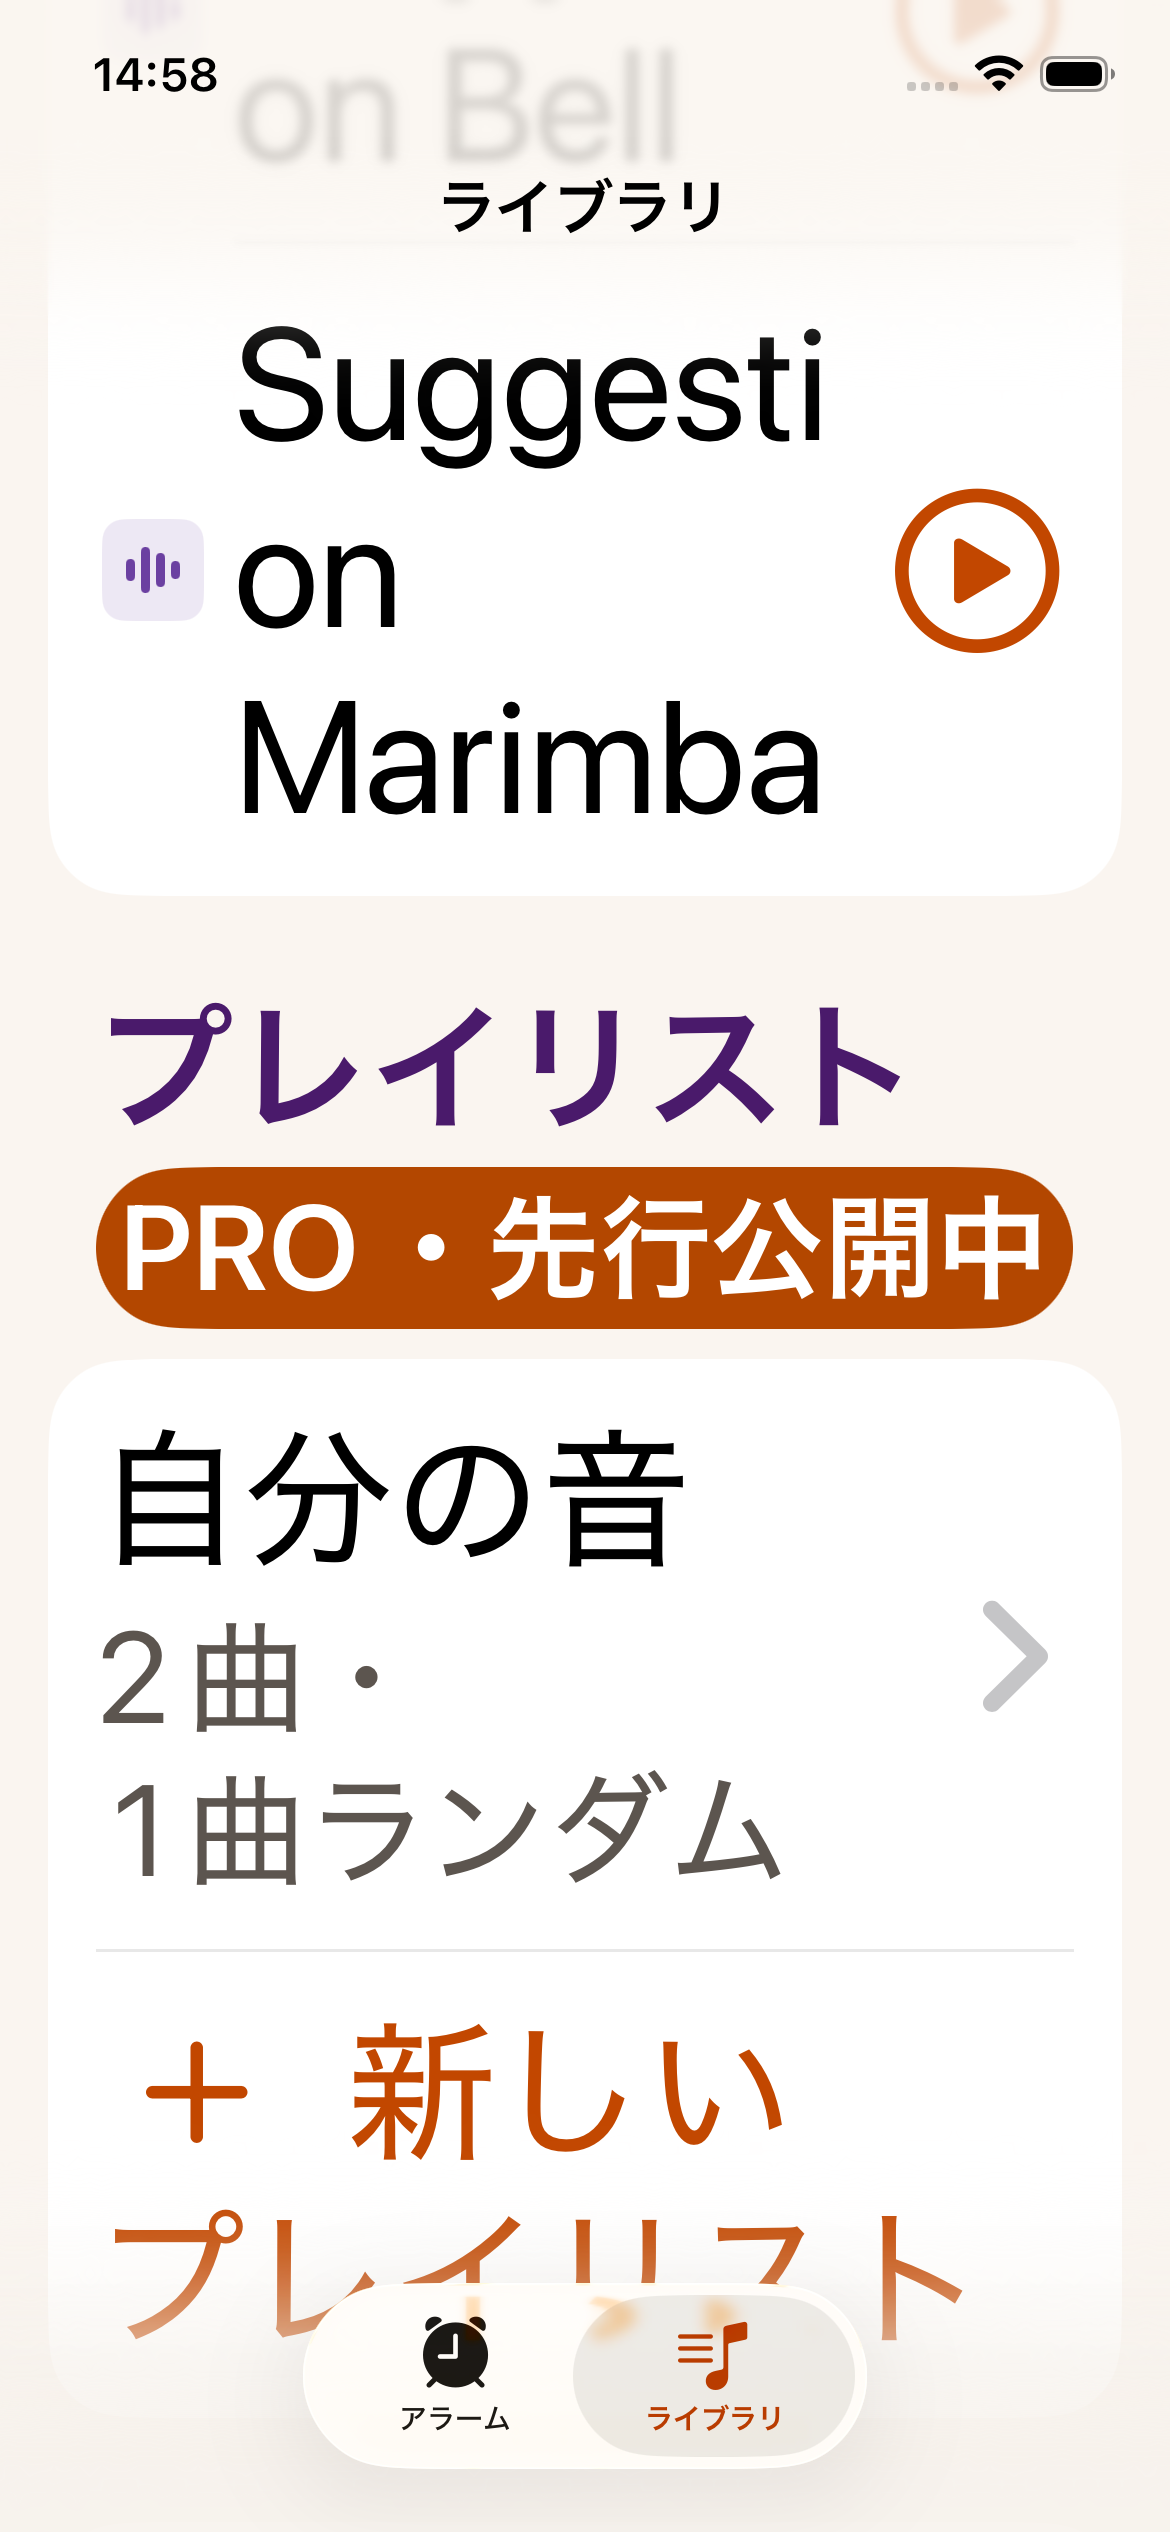
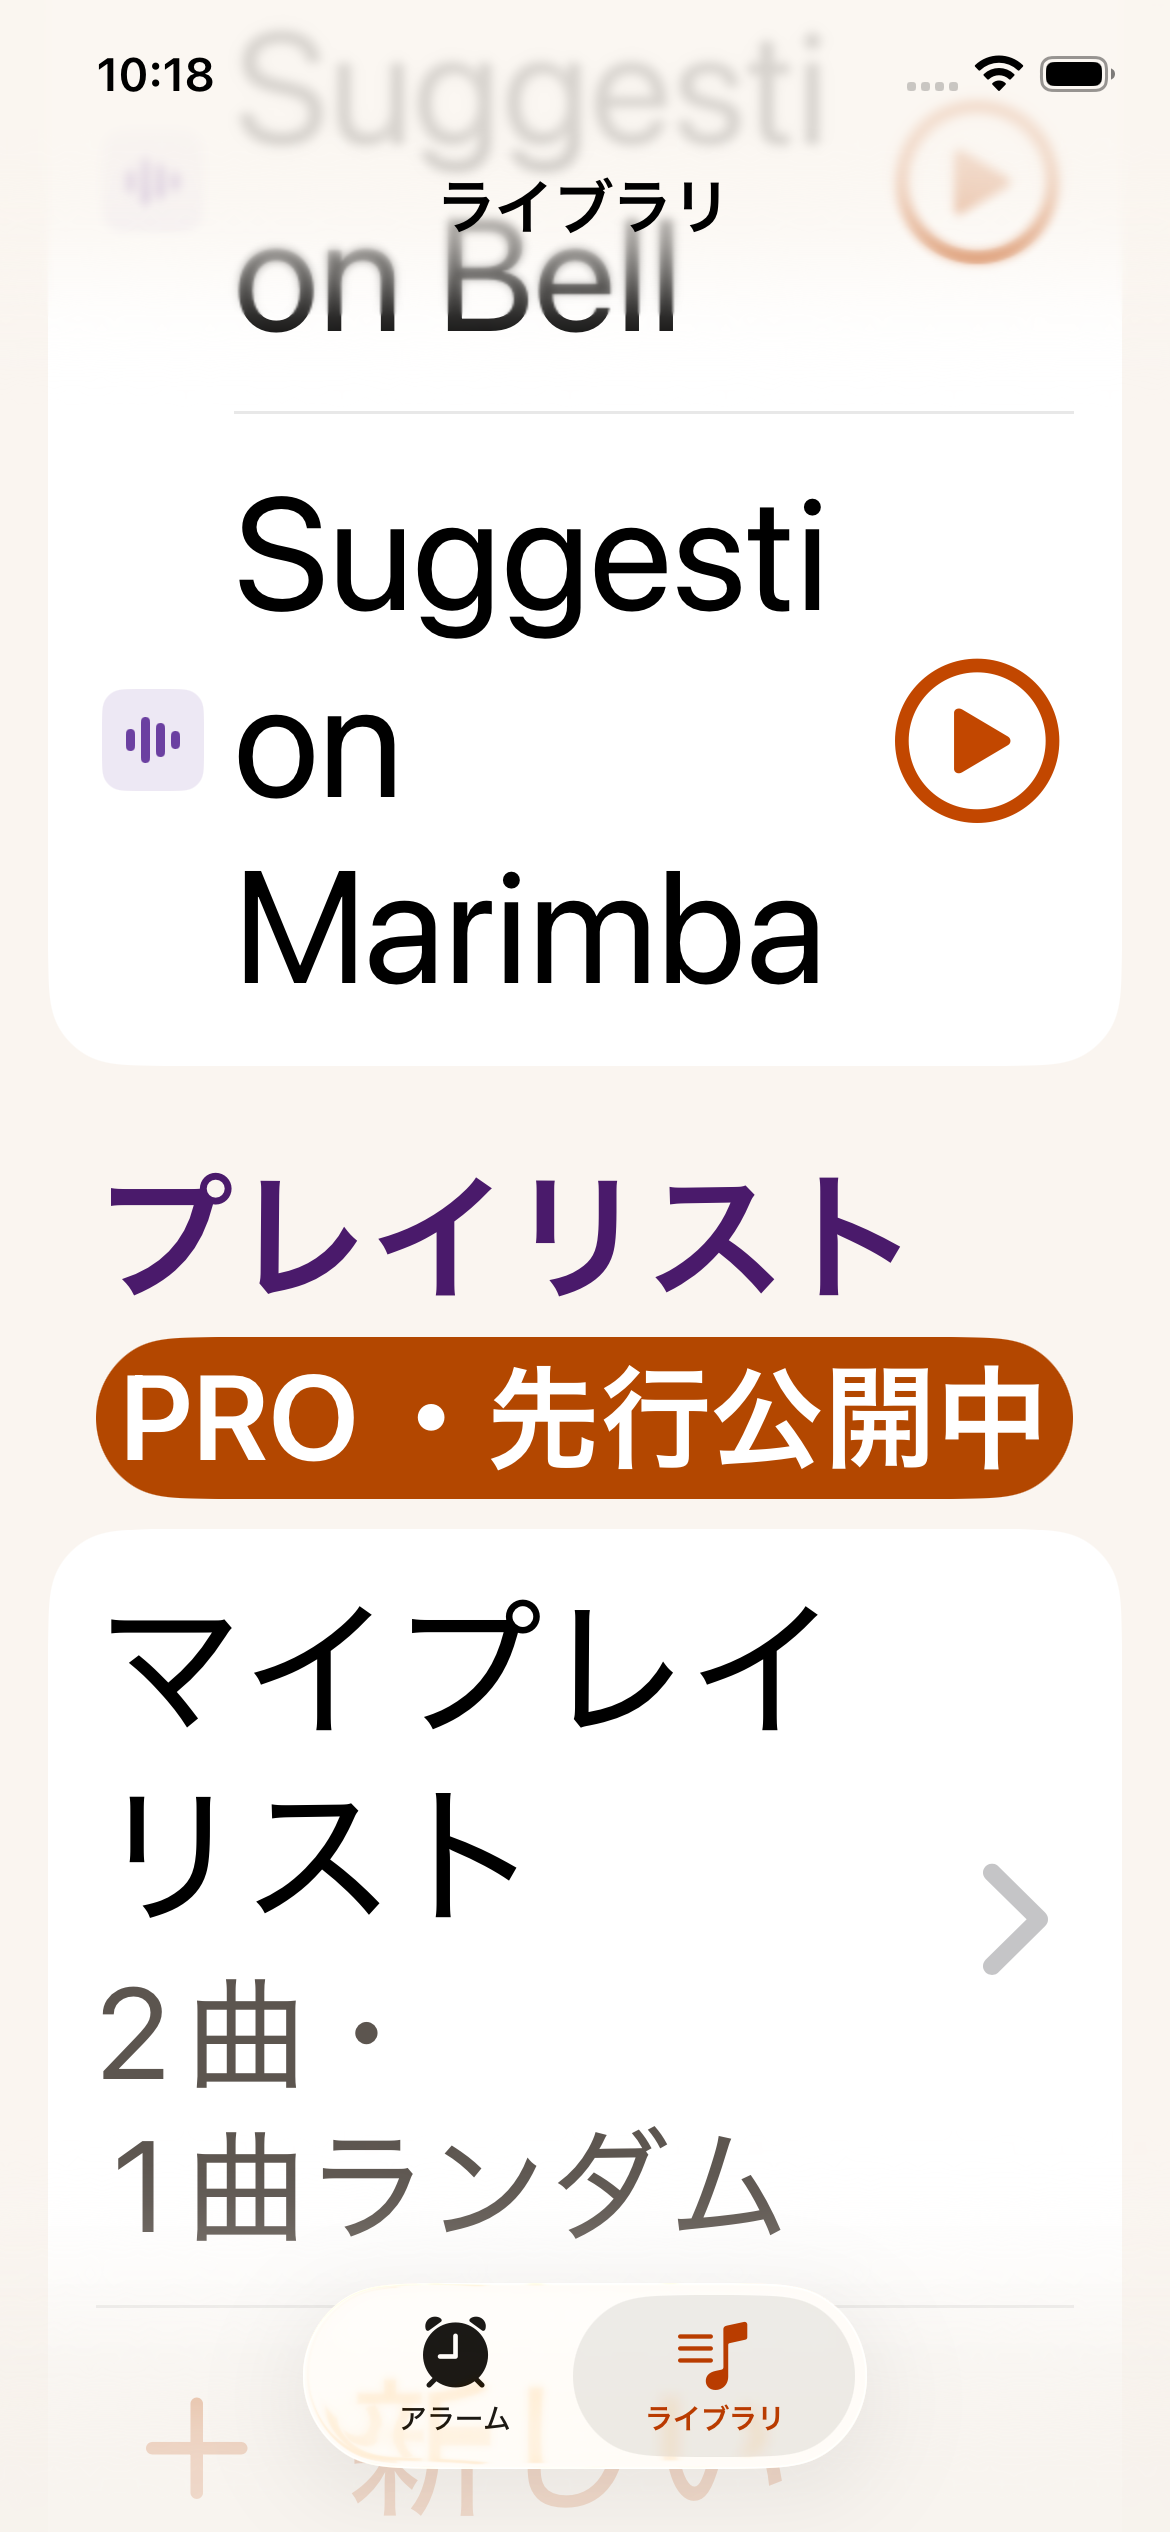
feat(library): rename the suggested playlist and clarify transitions (#207)
- Rename the generated playlist in all 13 languages: Japanese
  "マイプレイリスト", English "My Playlist", and a natural My Playlist
  equivalent elsewhere.
- Add a smallest-free-number suffix when the name already exists
  ("マイプレイリスト 2", "マイプレイリスト 3", ...), with unit tests.
- Clarify the transition copy in all languages: Japanese "曲の切り替え",
  "短くフェード（0.5秒）", "長くフェード（2秒）",
  "クロスフェード（前の曲と重ねる）", and the new footer. English uses
  "Between Tracks" and equivalent wording.
- Update the created-playlist and play-order screenshots.

Tests: 1000 passed (CustomSoundAlarmTests), 0 failures.
plutil -lint: all 13 Localizable.strings OK. Duplicate keys / key parity: OK.

diff --git a/CustomSoundAlarm/Models/PlaylistSuggestionLogic.swift b/CustomSoundAlarm/Models/PlaylistSuggestionLogic.swift
@@ -28,6 +28,18 @@ enum PlaylistSuggestionLogic {
         sounds.reduce(0) { $0 + ($1.durationSeconds ?? 0) }
     }
 
+    /// 同じ名前が既にあるとき、空いている最小の番号を付ける。
+    /// 例: なし→「マイプレイリスト」、無印あり→「マイプレイリスト 2」。
+    static func availableName(base: String, existingNames: [String]) -> String {
+        let existing = Set(existingNames)
+        guard existing.contains(base) else { return base }
+        var number = 2
+        while existing.contains("\(base) \(number)") {
+            number += 1
+        }
+        return "\(base) \(number)"
+    }
+
     /// 提案から作るプレイリストの鳴らし方。
     static let playOrder: PlaylistPlayOrder = .oneRandom
 
@@ -55,8 +67,13 @@ enum PlaylistSuggestionService {
         )
         guard sounds.count >= 2 else { return nil }
 
+        let baseName = String(localized: "playlist_suggestion_name")
+        let name = PlaylistSuggestionLogic.availableName(
+            base: baseName,
+            existingNames: PlaylistStore.shared.playlists.map(\.name)
+        )
         let playlist = PlaylistStore.shared.add(
-            name: String(localized: "playlist_suggestion_name"),
+            name: name,
             tracks: PlaylistSuggestionLogic.makeTracks(from: sounds),
             playOrder: PlaylistSuggestionLogic.playOrder
         )

diff --git a/CustomSoundAlarmTests/Models/PlaylistSuggestionLogicTests.swift b/CustomSoundAlarmTests/Models/PlaylistSuggestionLogicTests.swift
@@ -58,4 +58,21 @@ struct PlaylistSuggestionLogicTests {
         ]
         #expect(PlaylistSuggestionLogic.totalSeconds(sounds) == 12)
     }
+
+    @Test
+    func availableNameUsesTheSmallestFreeNumber() {
+        let base = "マイプレイリスト"
+        #expect(PlaylistSuggestionLogic.availableName(
+            base: base, existingNames: []
+        ) == base)
+        #expect(PlaylistSuggestionLogic.availableName(
+            base: base, existingNames: [base]
+        ) == "\(base) 2")
+        #expect(PlaylistSuggestionLogic.availableName(
+            base: base, existingNames: [base, "\(base) 2"]
+        ) == "\(base) 3")
+        #expect(PlaylistSuggestionLogic.availableName(
+            base: base, existingNames: ["\(base) 2"]
+        ) == base)
+    }
 }

diff --git a/CustomSoundAlarmUITests/AddAlarmRedesignUITests.swift b/CustomSoundAlarmUITests/AddAlarmRedesignUITests.swift
@@ -239,7 +239,7 @@ final class AddAlarmRedesignUITests: XCTestCase {
 
         XCTAssertTrue(soundRow.waitForExistence(timeout: 10), "should return to add screen")
         XCTAssertTrue(
-            soundRow.label.contains("My sounds") || soundRow.label.contains("自分の音"),
+            soundRow.label.contains("My Playlist") || soundRow.label.contains("マイプレイリスト"),
             "created playlist should be selected: \(soundRow.label)"
         )
 

diff --git a/CustomSoundAlarmUITests/LibraryUITests.swift b/CustomSoundAlarmUITests/LibraryUITests.swift
@@ -125,7 +125,7 @@ final class LibraryUITests: XCTestCase {
         suggestion.tap()
 
         XCTAssertTrue(
-            app.buttons["library.playlist.自分の音"].waitForExistence(timeout: 10),
+            app.buttons["library.playlist.マイプレイリスト"].waitForExistence(timeout: 10),
             "created playlist should appear: \(app.debugDescription)"
         )
         XCTAssertFalse(app.buttons["library.playlistSuggestion"].exists)
